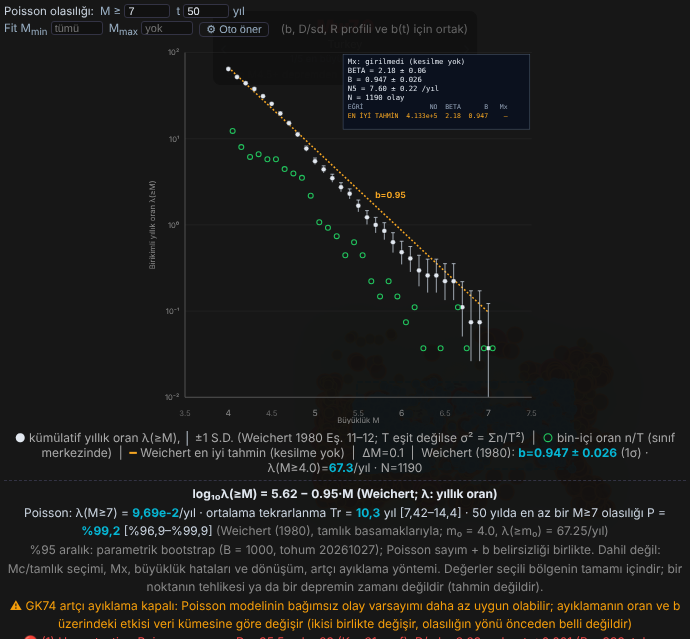
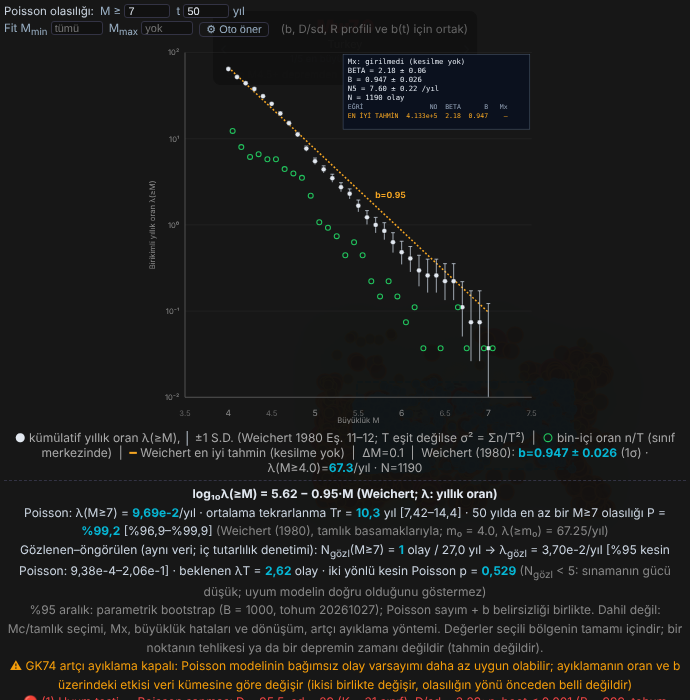
Poisson: gözlenen–öngörülen karşılaştırması (N_gözl, beklenen λT, iki yönlü kesin Poisson p, Garwood %95); tamlık uyarısında etki açıklaması
- Tek Mc: N_gözl(M≥M) ve T = seçili pencere; Weichert: M'nin tam gözlendiği dönemler, T(M) = csObsYears(M)
- p < 0,05 → "gözlenen sayı modelle uyumsuz" uyarısı; N_gözl < 5 → düşük güç notu; iç tutarlılık denetimi olduğu metinde
- Tamlık uyarısı varken P yanında "yorumlamayın" etiketi; b aşağı / büyük M'de λ ve P yukarı yanlılığı metinle
- Birim (test_poisson_prob.js) 23/23: analitik kuyruklar, Garwood, testin boyutu ≤ %5, sentetik eksik katalogda güç
- Kabul 42/42 (önce = tarihsel-pencere-T). Türkiye 1971–1997: M≥6 gözlenen 13; tek Mc beklenen 36,6 (p 1e-5), Weichert 23,2 (p 0,032)

Claude-Session: https://claude.ai/code/session_01UNMkcWFv5QgcQmvZTMC63m

diff --git a/index.html b/index.html
@@ -3693,9 +3693,11 @@ function renderGutenbergRichter(evList, Mc) {
       const warns = [];
       if (!(typeof regionDeclusterOn !== 'undefined' && regionDeclusterOn && regionRect)) warns.push('GK74 artçı ayıklama kapalı: Poisson modelinin bağımsız olay varsayımı daha az uygun olabilir; ayıklamanın oran ve b üzerindeki etkisi veri kümesine göre değişir (ikisi birlikte değişir, olasılığın yönü önceden belli değildir)');
       const hs = grHalfSplitTest(evList.filter(e => (e.mw ?? e.mag) >= g.mc - 1e-9).map(e => +new Date(e.time)).filter(Number.isFinite), tP0, tP1);
-      if (hs.n >= 10 && hs.p < GR_POIS.halfAlpha) warns.push(`M ≥ Mc olayları dönemin ilk yarısında belirgin az (${hs.n1} / ${hs.n2}; tek yönlü binom p = ${hs.p < 1e-4 ? hs.p.toExponential(1) : hs.p.toFixed(4)}): katalog T boyunca Mc'de tam görünmüyor; yıllık oran için Tamlık basamaklarını (Weichert) kullanın`);
-      lastGrPois = { path: 'tekMc', lam, ci, M: pM, t: pT, T: Tp, n: g.n, b: g.b, mc: g.mc, warns: warns.slice() };
-      poisHtml = grPoissonHtml({ eq: `log₁₀[N(≥M)/T] = ${aT.toFixed(2)} − ${g.b.toFixed(2)}·M (T = ${Tp.toFixed(1)} yıl)`, lam, ci, M: pM, t: pT, mObsMax: mMax, mx: null,
+      const compWarn = hs.n >= 10 && hs.p < GR_POIS.halfAlpha;
+      if (compWarn) warns.push(`M ≥ Mc olayları dönemin ilk yarısında belirgin az (${hs.n1} / ${hs.n2}; tek yönlü binom p = ${hs.p < 1e-4 ? hs.p.toExponential(1) : hs.p.toFixed(4)}): katalog T boyunca Mc'de tam görünmüyor. Etkisi: eksik dönem küçük olayları büyüklere göre daha çok eksiltir; b aşağı yanlı olur ve Mc'den büyük M'ye uzatılan λ ile P yukarı yanlı olabilir; N(≥Mc)/T ise düşük kalır. Bu satırdaki P yorumlanmamalıdır; yıllık oran için Tamlık basamaklarını (Weichert) kullanın`);
+      const nObs = evList.filter(e => (e.mw ?? e.mag) >= pM - 1e-9).length, obs = grObsVsExp(nObs, lam * Tp, Tp);
+      lastGrPois = { path: 'tekMc', lam, ci, M: pM, t: pT, T: Tp, n: g.n, b: g.b, mc: g.mc, warns: warns.slice(), obs, compWarn };
+      poisHtml = grPoissonHtml({ eq: `log₁₀[N(≥M)/T] = ${aT.toFixed(2)} − ${g.b.toFixed(2)}·M (T = ${Tp.toFixed(1)} yıl)`, lam, ci, M: pM, t: pT, mObsMax: mMax, mx: null, obs, compWarn,
         src: `tek Mc = ${fmtM(g.mc)}, N(≥Mc) = ${g.n}, Aki–Utsu b; kesilmesiz G–R (Mx yalnız tamlık basamaklarıyla); oran, katalog T boyunca M ≥ Mc'de tamsa geçerlidir`, warns });
     }
   }
@@ -5448,9 +5450,32 @@ function grHalfSplitTest(times, t0, t1) {
   let p = 0; for (let k = 0; k <= n1; k++) p += Math.exp(logGamma(n + 1) - logGamma(k + 1) - logGamma(n - k + 1) - n * Math.LN2);
   return { n, n1, n2: n - n1, p: Math.min(1, p) };
 }
+// Gözlenen–öngörülen karşılaştırması (2026-10-27). Düzenli eksik gama P(a, x) (Numerical Recipes 6.2: seri / sürekli kesir).
+// Poisson kuyrukları: P(X ≤ k | μ) = 1 − P(k + 1, μ); P(X ≥ k | μ) = P(k, μ) (k ≥ 1).
+function grGammaP(a, x) {
+  if (!(x > 0)) return 0; if (!(a > 0)) return 1;
+  const lg = a * Math.log(x) - x - logGamma(a);
+  if (x < a + 1) { let ap = a, sum = 1 / a, del = sum; for (let n = 0; n < 10000; n++) { ap += 1; del *= x / ap; sum += del; if (Math.abs(del) < Math.abs(sum) * 1e-15) break; } return Math.min(1, sum * Math.exp(lg)); }
+  let b = x + 1 - a, c = 1 / 1e-300, d = 1 / b, h = d;
+  for (let i = 1; i < 10000; i++) { const an = -i * (i - a); b += 2; d = an * d + b; if (Math.abs(d) < 1e-300) d = 1e-300; c = b + an / c; if (Math.abs(c) < 1e-300) c = 1e-300; d = 1 / d; const del = d * c; h *= del; if (Math.abs(del - 1) < 1e-15) break; }
+  return Math.max(0, 1 - Math.exp(lg) * h);
+}
+// x: P(a, x) = q (ikiye bölme, log ölçeğinde)
+function grGammaPInv(a, q) { let lo = 1e-12, hi = Math.max(10, a + 20 * Math.sqrt(a) + 20); while (grGammaP(a, hi) < q) hi *= 2;
+  for (let i = 0; i < 200; i++) { const mid = Math.sqrt(lo * hi); if (grGammaP(a, mid) < q) lo = mid; else hi = mid; if (hi / lo - 1 < 1e-12) break; } return Math.sqrt(lo * hi); }
+// Gözlenen N ile beklenen μ = λT: iki yönlü kesin Poisson p (iki kat küçük kuyruk, en çok 1) ve gözlenen oranın kesin %95 aralığı (Garwood 1936)
+function grObsVsExp(nObs, mu, Tobs) {
+  if (!(Tobs > 0) || !(mu >= 0) || !(nObs >= 0)) return null;
+  let pLow, pHigh;
+  if (mu === 0) { pLow = 1; pHigh = nObs === 0 ? 1 : 0; }
+  else { pLow = 1 - grGammaP(nObs + 1, mu); pHigh = nObs === 0 ? 1 : grGammaP(nObs, mu); }
+  const p = Math.min(1, 2 * Math.min(pLow, pHigh));
+  const lo = nObs === 0 ? 0 : grGammaPInv(nObs, 0.025) / Tobs, hi = grGammaPInv(nObs + 1, 0.975) / Tobs;
+  return { nObs, mu, Tobs, lamObs: nObs / Tobs, lo, hi, pLow, pHigh, p };
+}
 function grPoisInputs() { const g = id => parseFloat(document.getElementById(id)?.value); const M = g('grPM'), t = g('grPt');
   return { M: Number.isFinite(M) ? M : GR_POIS.mDef, t: Number.isFinite(t) && t > 0 ? t : GR_POIS.tDef }; }
-// Panel satırı (iki G–R yolunda ortak). r: { eq, lam, ci, M, t, mObsMax, mx, src, warns[] }
+// Panel satırı (iki G–R yolunda ortak). r: { eq, lam, ci, M, t, mObsMax, mx, src, warns[], obs (grObsVsExp), compWarn }
 function grPoissonHtml(r) {
   const pc = v => v === null || !Number.isFinite(v) ? '—' : (100 * v < 0.1 && v > 0 ? '< 0,1' : (100 * v).toFixed(1).replace('.', ','));
   const yr = v => v === null || !Number.isFinite(v) || v <= 0 ? '—' : v >= 1e4 ? v.toExponential(2).replace('.', ',') : v >= 100 ? Math.round(v).toLocaleString('tr-TR') : v.toPrecision(3).replace('.', ',');
@@ -5460,10 +5485,16 @@ function grPoissonHtml(r) {
   const trCi = r.ci && r.ci.lamHi ? ` [${yr(1 / r.ci.lamHi)}–${yr(r.ci.lamLo > 0 ? 1 / r.ci.lamLo : null)}]` : '';
   const W = r.warns.slice(); if (ex) W.unshift(`M ≥ ${r.M} gözlenen en büyük büyüklüğün (${r.mObsMax.toFixed(1)}) üstünde: sonuç <b>ekstrapolasyondur</b>${r.mx === null ? '; kesilmesiz G–R büyük M için oranı olduğundan yüksek verebilir' : ''}`);
   if (r.mx !== null && r.M >= r.mx) W.unshift(`M ≥ Mx (${r.mx}): kesik G–R modelinde oran 0`);
+  const o = r.obs, num = v => v.toPrecision(3).replace('.', ',');
+  if (o && o.mu > 0 && o.p < 0.05) W.unshift(`Gözlenen sayı modelle uyumsuz (M ≥ ${r.M}: gözlenen ${o.nObs}, beklenen ${num(o.mu)}; p = ${o.p < 1e-4 ? o.p.toExponential(1).replace('.', ',') : o.p.toFixed(3).replace('.', ',')}): bu M için λ, Tr ve P güvenilir değildir`);
+  const obsLine = !o ? '' : `<br><span title="Aynı katalog hem modeli kurmak hem sınamak için kullanılır: bu bir iç tutarlılık denetimidir, bağımsız doğrulama değildir. p: model λ doğruysa, gözlenen sayının beklenenden en az bu kadar uzak çıkma olasılığı (iki yönlü kesin Poisson; küçük kuyruk × 2). Az gözlemde sınamanın gücü düşüktür.">` +
+    `Gözlenen–öngörülen (aynı veri; iç tutarlılık denetimi): N<sub>gözl</sub>(M≥${r.M}) = <b>${o.nObs}</b> olay / ${o.Tobs.toFixed(1).replace('.', ',')} yıl → λ<sub>gözl</sub> = ${lmb(o.lamObs)}/yıl [%95 kesin Poisson: ${lmb(o.lo)}–${lmb(o.hi)}] · beklenen λT = <b>${num(o.mu)}</b> olay · iki yönlü kesin Poisson p = <b>${o.p < 1e-4 ? o.p.toExponential(1).replace('.', ',') : o.p.toFixed(3).replace('.', ',')}</b>` +
+    (o.nObs < 5 ? ` <span style="color:#888">(N<sub>gözl</sub> &lt; 5: sınamanın gücü düşük; uyum modelin doğru olduğunu göstermez)</span>` : '') + `</span>`;
+  const pTag = r.compWarn ? ` <span style="color:#f59e0b">(tamlık uyarısı: yorumlamayın, aşağıya bakın)</span>` : '';
   return `<div id="grPoisRow" style="margin-top:5px;padding-top:4px;border-top:1px dashed #334;color:#cbd5e1;line-height:1.55;">` +
     `<b style="color:#e2e8f0;">${r.eq}</b><br>` +
-    `<span title="Poisson (zamandan bağımsız): P(t) = 1 − e^(−λt), Tr = 1/λ">Poisson: λ(M≥${r.M}) = <b>${lmb(r.lam)}</b>/yıl · ortalama tekrarlanma Tr = <b>${yr(Tr)}</b> yıl${trCi} · ${r.t} yılda en az bir M≥${r.M} olasılığı P = <b>%${pc(P)}</b>${ci}</span> ` +
-    `<span style="color:#888">(${r.src})</span><br>` +
+    `<span title="Poisson (zamandan bağımsız): P(t) = 1 − e^(−λt), Tr = 1/λ">Poisson: λ(M≥${r.M}) = <b>${lmb(r.lam)}</b>/yıl · ortalama tekrarlanma Tr = <b>${yr(Tr)}</b> yıl${trCi} · ${r.t} yılda en az bir M≥${r.M} olasılığı P = <b>%${pc(P)}</b>${ci}${pTag}</span> ` +
+    `<span style="color:#888">(${r.src})</span>` + obsLine + `<br>` +
     `<span style="color:#888">%95 aralık: parametrik bootstrap${r.ci ? ` (B = ${r.ci.B}, tohum ${r.ci.seed}${r.ci.nFail ? `, kurulamayan ${r.ci.nFail}` : ''})` : ''}; Poisson sayım + b belirsizliği birlikte. Dahil değil: Mc/tamlık seçimi, Mx, büyüklük hataları ve dönüşüm, artçı ayıklama yöntemi. ` +
     `Değerler seçili bölgenin tamamı içindir; bir noktanın tehlikesi ya da bir depremin zamanı değildir (tahmin değildir).</span>` +
     (W.length ? `<br><span style="color:#f59e0b">⚠ ${W.join(' · ⚠ ')}</span>` : '') + `</div>`;
@@ -6071,9 +6102,12 @@ function renderGutenbergRichterCS(cs) {
     const warns = [];
     if (!(typeof regionDeclusterOn !== 'undefined' && regionDeclusterOn && regionRect)) warns.push('GK74 artçı ayıklama kapalı: Poisson modelinin bağımsız olay varsayımı daha az uygun olabilir; ayıklamanın oran ve b üzerindeki etkisi veri kümesine göre değişir (ikisi birlikte değişir, olasılığın yönü önceden belli değildir)');
     if (fitOn && (pM < m0 - 1e-9)) warns.push(`M ≥ ${pM} fit aralığının (M ${m0.toFixed(1)}–${mTopFit.toFixed(1)}) altında`);
-    lastGrPois = { path: 'weichert', lam, ci, M: pM, t: pT, mx: Mx, m0, rate0: rate0Best, b: wf.b, warns: warns.slice() };
+    // Gözlenen: M'nin tam gözlendiği dönemler (eşik ≤ M) ve bu dönemlerdeki M ≥ M olayları; maruz kalma T(M) = csObsYears(M)
+    const Tobs = csObsYears(pM, cs.periods), nObs = items.filter(it => it.mc <= pM + 1e-9 && it.m >= pM - 1e-9).length;
+    const obs = Tobs > 0 ? grObsVsExp(nObs, lam * Tobs, Tobs) : null;
+    lastGrPois = { path: 'weichert', lam, ci, M: pM, t: pT, mx: Mx, m0, rate0: rate0Best, b: wf.b, warns: warns.slice(), obs };
     poisHtml = grPoissonHtml({ eq: Mx === null ? `log₁₀λ(≥M) = ${aW.toFixed(2)} − ${wf.b.toFixed(2)}·M (Weichert; λ: yıllık oran)` : `λ(≥M) = λ₀·[e^(−β(M−m₀)) − e^(−β(Mx−m₀))]/[1 − e^(−β(Mx−m₀))], Mx = ${Mx} (kesik G–R; Mx'ten uzakta log₁₀λ ≈ ${aW.toFixed(2)} − ${wf.b.toFixed(2)}·M)`,
-      lam, ci, M: pM, t: pT, mObsMax: Math.max(...items.map(it => it.m)), mx: Mx, src: `Weichert (1980), tamlık basamaklarıyla; m₀ = ${m0.toFixed(1)}, λ(≥m₀) = ${rate0Best.toPrecision(4)}/yıl`, warns });
+      lam, ci, M: pM, t: pT, mObsMax: Math.max(...items.map(it => it.m)), mx: Mx, obs, src: `Weichert (1980), tamlık basamaklarıyla; m₀ = ${m0.toFixed(1)}, λ(≥m₀) = ${rate0Best.toPrecision(4)}/yıl`, warns });
   }
   stats.innerHTML = `<span style="color:#e2e8f0">●</span> kümülatif yıllık oran λ(≥M), <span style="color:#cbd5e1">│</span> ±1 S.D. (Weichert 1980 Eş. 11–12; T eşit değilse σ² = Σn/T²) &nbsp;|&nbsp; <span style="color:#22c55e">○</span> bin-içi oran n/T (sınıf merkezinde) &nbsp;|&nbsp; <span style="color:#f5a623">━</span> Weichert en iyi tahmin${Mx !== null ? ` (Mx = ${Mx} ile kesik, Eş. 14)` : ' (kesilme yok)'}${curves.length > 1 ? ` · <span style="color:#9ca3af">─</span> üst/alt eğri (β ∓ σ, Mx ${dMxHi >= 0 ? '+' : ''}${dMxHi} / ${dMxLo >= 0 ? '+' : ''}${dMxLo}; oran Eş. 10'dan)` : ''} &nbsp;|&nbsp; ΔM=${DM}${fitStr}` + poisHtml +
     (mxNote ? `<div style="color:#f59e0b">${mxNote}</div>` : '') + (fitNote ? `<div style="color:#f59e0b">${fitNote}</div>` : '') +

diff --git a/scripts/test_poisson_prob.js b/scripts/test_poisson_prob.js
@@ -7,6 +7,8 @@
 //   3. Sentetik katalog (tek Mc): bilinen λ0 ve b = 1 → λ(≥6) ve P(50 yıl) yansız geri üretilir; bootstrap %95 aralığı kapsaması ≈ %95.
 //   4. Sentetik katalog (Weichert, değişken tamlık): aynı denetimler.
 //   5. Tamlık denetimi (binom, tek yönlü): kesin değer ve iki senaryo.
+//   6. Gözlenen–öngörülen: kesin Poisson kuyrukları ve Garwood aralığı (analitik), testin boyutu (doğru modelde p < 0,05 oranı ≤ %5),
+//      sentetik başı eksik katalogda tek Mc yanlılığının yakalanması, Weichert'in aynı katalogda uyumlu kalması.
 // Kullanım (depo kökünde): node scripts/test_poisson_prob.js [index.html]
 'use strict';
 const fs = require('fs'), path = require('path'), vm = require('vm');
@@ -17,7 +19,7 @@ const line = re => { const m = src.match(re); if (!m) throw new Error('bulunamad
 const ctx = {}; vm.createContext(ctx);
 vm.runInContext([line(/^const GR_QC = [^\n]*$/m), line(/^const GR_POIS = [^\n]*$/m), line(/^const LANCZOS_C = \[[\s\S]*?\];$/m),
   ...['mulberry32', 'logGamma', 'poissonSample', 'bGridRound', 'computeBvalue', 'weichertFit', 'weichertExpected',
-      'grPoissonP', 'grLambdaSimple', 'grLambdaWeichert', 'grPctl', 'grPoissonBootSimple', 'grPoissonBootWeichert', 'grHalfSplitTest'].map(fn)].join('\n'), ctx);
+      'grPoissonP', 'grLambdaSimple', 'grLambdaWeichert', 'grPctl', 'grPoissonBootSimple', 'grPoissonBootWeichert', 'grHalfSplitTest', 'grGammaP', 'grGammaPInv', 'grObsVsExp'].map(fn)].join('\n'), ctx);
 const X = ctx;
 let pass = 0, fail = 0;
 const ok = (c, m) => { if (c) pass++; else fail++; console.log((c ? '  ok  ' : '  !!  ') + m); };
@@ -100,5 +102,41 @@ console.log('\n5. Tamlık denetimi (binom, tek yönlü)');
   const rnd = X.mulberry32(9), uni = Array.from({ length: 400 }, () => rnd() * 100), front = Array.from({ length: 400 }, () => (rnd() < 0.25 ? rnd() * 50 : 50 + rnd() * 50));
   const hu = X.grHalfSplitTest(uni, 0, 100), hf = X.grHalfSplitTest(front, 0, 100);
   ok(hu.p > 0.01 && hf.p < 1e-6, `tekdüze katalog p = ${hu.p.toFixed(3)} (uyarı yok); başı eksik katalog (ilk yarı %25) p = ${hf.p.toExponential(1)} (uyarı)`); }
+
+console.log('\n6. Gözlenen–öngörülen (kesin Poisson)');
+{ // Analitik: P(X ≤ 1 | μ) = e^−μ(1 + μ); Garwood N = 1: [χ²(0,025; 2)/2, χ²(0,975; 4)/2] = [0,025318, 5,571643]; N = 0 üst: −ln 0,025 = 3,688879
+  const mu = 6.17, r = X.grObsVsExp(1, mu, 27), pl = Math.exp(-mu) * (1 + mu);
+  ok(near(r.pLow, pl, 1e-12) && near(r.p, 2 * pl, 1e-12), `N = 1, μ = 6,17: P(X ≤ 1) = ${r.pLow.toFixed(6)} (analitik ${pl.toFixed(6)}); iki yönlü p = ${r.p.toFixed(4)}`);
+  ok(near(r.lo * 27, 0.025318, 1e-5) && near(r.hi * 27, 5.571643, 1e-5), `Garwood %95, N = 1: [${(r.lo * 27).toFixed(6)}, ${(r.hi * 27).toFixed(6)}] olay (tablo 0,025318–5,571643)`);
+  const z = X.grObsVsExp(0, 2, 10); ok(z.lo === 0 && near(z.hi * 10, 3.688879, 1e-5) && near(z.p, Math.min(1, 2 * Math.exp(-2)), 1e-12), `N = 0: üst sınır ${(z.hi * 10).toFixed(6)} (−ln 0,025), p = 2e^−2`);
+  // Büyük N: doğrudan log-toplamla karşılaştırma
+  const lpois = (k, m) => -m + k * Math.log(m) - X.logGamma(k + 1);
+  let cdf = 0; for (let k = 0; k <= 9700; k++) cdf += Math.exp(lpois(k, 10000));
+  const b = X.grObsVsExp(9700, 10000, 1); ok(Math.abs(b.pLow / cdf - 1) < 1e-8, `N = 9700, μ = 10⁴: P(X ≤ N) = ${b.pLow.toExponential(4)} (doğrudan toplam ${cdf.toExponential(4)})`);
+  const m0 = X.grObsVsExp(0, 0, 5), m1 = X.grObsVsExp(2, 0, 5); ok(m0.p === 1 && m1.p === 0, 'μ = 0 (M ≥ Mx): N = 0 → p = 1; N > 0 → p = 0 (model gözlemle çelişir)'); }
+{ // Boyut: doğru modelde p < 0,05 oranı ≤ %5 (kesin test tutucudur)
+  const rnd = X.mulberry32(31), R = 4000, out = [];
+  for (const mu of [0.5, 3, 30, 300]) { let rej = 0; for (let i = 0; i < R; i++) if (X.grObsVsExp(X.poissonSample(mu, rnd), mu, 1).p < 0.05) rej++; out.push([mu, rej / R]); }
+  console.log(`     doğru modelde reddetme oranı (α = 0,05, ${R} deneme): ${out.map(([m, r]) => `μ = ${m}: %${(100 * r).toFixed(1)}`).join('; ')}`);
+  ok(out.every(([, r]) => r <= 0.05 + 0.011), 'testin boyutu nominali aşmıyor (≤ %5 + Monte Carlo payı)'); }
+{ // Sentetik başı eksik katalog: gerçek b = 1, λ(≥3) = 40/yıl, T = 60 yıl; ilk 30 yılda M < 4,0 olayların %90'ı kayıp (yalnız M ≥ 4 tam)
+  // Denetimin gücü beklenen sayıya bağlıdır: M ≥ 5 (beklenen ≈ 24 olay) ve M ≥ 6 (≈ 2,4 olay) ayrı raporlanır.
+  const DM = 0.1, b = 1, beta = b * Math.LN10, lam0 = 40, T = 60, Mc = 3.0, R = 200, rnd = X.mulberry32(2026), Ms = [5.0, 6.0];
+  const rejS = { 5: 0, 6: 0 }, rejW = { 5: 0, 6: 0 }; let bS = 0, nW = 0;
+  for (let r = 0; r < R; r++) {
+    const ev = []; const n = X.poissonSample(lam0 * T, rnd);
+    for (let i = 0; i < n; i++) { const t = rnd() * T, m = X.bGridRound(Mc - DM / 2 - Math.log(1 - rnd()) / beta, Mc, DM); if (t < 30 && m < 4 - 1e-9 && rnd() < 0.9) continue; ev.push({ t, m }); }
+    const mg = ev.map(e => e.m), bh = X.computeBvalue(mg, Mc, DM), nA = mg.filter(m => m >= Mc - 1e-9).length; bS += bh;
+    const counts = {}; ev.forEach(e => { const k = Math.floor((e.m + 1e-9) / DM); if (k < 40 && e.t < 30) return; counts[k] = (counts[k] || 0) + 1; });
+    const cls = []; for (let k = 30; k < 90; k++) { const lo = +(k * DM).toFixed(2); cls.push({ m: lo + DM / 2, lo, T: lo >= 4 - 1e-9 ? 60 : 30, n: counts[k] || 0 }); }
+    const wf = X.weichertFit(cls); if (wf) nW++;
+    for (const M of Ms) { const nObs = mg.filter(m => m >= M - 1e-9).length;
+      if (X.grObsVsExp(nObs, X.grLambdaSimple(nA, T, bh, Mc, M) * T, T).p < 0.05) rejS[M]++;
+      if (wf && X.grObsVsExp(nObs, X.grLambdaWeichert(wf.rate0, wf.beta, 3.0, M, null) * T, T).p < 0.05) rejW[M]++; }
+  }
+  const f = (k, n) => `%${(100 * k / n).toFixed(1)}`;
+  console.log(`     başı eksik katalog (${R}): tek Mc ortalama b = ${(bS / R).toFixed(3)} (gerçek 1). Gözlenen–öngörülen p < 0,05 oranı — M ≥ 5 (beklenen ≈ 24 olay): tek Mc ${f(rejS[5], R)}, Weichert ${f(rejW[5], nW)}; M ≥ 6 (≈ 2,4 olay): tek Mc ${f(rejS[6], R)}, Weichert ${f(rejW[6], nW)}`);
+  ok(bS / R < 0.95 && rejS[5] / R > rejW[5] / nW && rejW[5] / nW <= 0.08, 'eksik tamlıkta tek Mc b aşağı yanlı; denetim tek Mc\'yi Weichert\'ten daha sık reddediyor, Weichert reddi nominal düzeyde. Güç düşük: düşük N(≥Mc) ile düşük b orta M\'de kısmen birbirini götürür (M ≥ 5\'te öngörü/gerçek ≈ 1,2); denetim bir tarama aracıdır, yanlılığın yokluğunu kanıtlamaz');
+  ok(rejS[6] / R < rejS[5] / R, 'az olayda (M ≥ 6) denetimin gücü düşük: uyum, modelin doğru olduğu anlamına gelmez'); }
 
 console.log(`\n${fail ? 'FAIL' : 'PASS'}: ${pass} geçti, ${fail} kaldı`); process.exit(fail ? 1 : 0);

diff --git a/analysis/poisson_olasilik/kabul_poisson.js b/analysis/poisson_olasilik/kabul_poisson.js
@@ -9,6 +9,7 @@
 //   (3) Girdiler: M ve t değişince değerler güncellenir, URL'ye yazılır (pm, pt); varsayılan M ≥ 7, t = 50.
 //   (4) Uyarılar: GK74 kapalıyken uyarı var, açıkken yok; M > gözlenen en büyük → ekstrapolasyon uyarısı; Mx girildi ve M ≥ Mx → λ = 0 ve uyarı.
 //   (5) Bölge bütünü / tahmin değildir notu ve belirsizlik kapsamı (dahil/dahil değil) metinde.
+//   (6) Gözlenen–öngörülen: N_gözl, beklenen λT ve kesin Poisson p bağımsız hesapla aynı; p < 0,05'te uyarı; N_gözl < 5 notu; tamlık uyarısında P etiketi.
 // Ekran görüntüleri: poisson_tekMc_gk74kapali.png, poisson_tekMc_gk74acik.png, poisson_weichert.png, poisson_weichert_mx.png
 // Kullanım (depo kökünde): LEAFLET_DIR=<node_modules> node analysis/poisson_olasilik/kabul_poisson.js <önceki_index.html>
 'use strict';
@@ -66,6 +67,7 @@ const ADIM = [   // [ad, işlem]
   ['weichert_gk74kapali', async p => p.evaluate(async () => { await __gk(false); })],
   ['weichert_mx75_M7', async p => p.evaluate(() => { __set('grMx', '7.5'); })],
   ['weichert_mx75_M8', async p => p.evaluate(() => { __set('grPM', '8'); })],
+  ['weichert_M6', async p => p.evaluate(() => { __set('grMx', ''); __set('grPM', '6'); })],
   // Tamlık denetimi: pencerenin ilk yarısı boşsa uyarı (seçili pencere 1971–1997 iken 1900'den başlatılmış gibi; yalnız test için)
   ['tekMc_ilkYariBos', async p => p.evaluate(() => { __cs(false); __set('grMx', ''); __set('grPM', '7'); regionWindowStart = new Date('1900-01-01T00:00:00Z'); renderTimeMag([...events, ...liveEvents]); })],
 ];
@@ -116,6 +118,21 @@ const GORUNTU = { tekMc_gk74kapali: 'poisson_tekMc_gk74kapali.png', tekMc_gk74ac
     const a = Y.tekMc_gk74kapali, z = Y.tekMc_ilkYariBos;
     ok(/ilk yarısında belirgin az \(0 \/ /.test(z.pois), `(2) İlk yarı boş (T 1900'den): tamlık uyarısı "${w(z.pois)}"`);
     console.log(`     Seçili pencerede (1971–1997) tamlık denetimi: ${w(a.pois) ? 'uyarı "' + w(a.pois) + '" (ISC 1971–1984 dönemi M ≥ Mc = 3,7 için eksik)' : 'uyarı yok'}`); }
+  // Gözlenen–öngörülen: N_obs, μ = λT(M), kesin Poisson p bağımsız yeniden hesapla; uyarı ve tamlık etiketi
+  { const pois = (k, m) => Math.exp(-m + k * Math.log(m) - lg(k + 1)), lg = x => { let s = 0; for (let i = 2; i < x; i++) s += Math.log(i); return s; };
+    const cdf = (k, m) => { let c = 0; for (let i = 0; i <= k; i++) c += pois(i, m); return c; };
+    const p2 = (n, m) => m === 0 ? (n === 0 ? 1 : 0) : Math.min(1, 2 * Math.min(cdf(n, m), n === 0 ? 1 : 1 - cdf(n - 1, m)));
+    for (const k of ['tekMc_gk74kapali', 'tekMc_M6_t75', 'weichert_gk74kapali', 'weichert_mx75_M8', 'weichert_M6']) {
+      const q = Y[k].pois_n, o = q.obs, T = q.path === 'tekMc' ? q.T : o.Tobs, mu = q.lam * T, pr = p2(o.nObs, mu);
+      ok(o && Math.abs(o.mu - mu) <= 1e-9 * Math.max(1, mu) && Math.abs(o.p - pr) < 1e-9 && Y[k].pois.includes(`= ${o.nObs} olay`),
+        `(6) ${k}: N_gözl(M≥${q.M}) = ${o.nObs} / ${o.Tobs.toFixed(2)} yıl; beklenen λT = ${mu.toPrecision(3)}; p = ${o.p.toPrecision(3)} (bağımsız hesap ${pr.toPrecision(3)}); λ_gözl %95 [${o.lo.toExponential(2)}, ${o.hi.toExponential(2)}]`);
+    }
+    const a = Y.tekMc_gk74kapali, w = Y.weichert_gk74kapali;
+    ok(a.pois_n.obs.p < 0.05 && /Gözlenen sayı modelle uyumsuz/.test(a.pois) && w.pois_n.obs.p >= 0.05 && !/modelle uyumsuz/.test(w.pois),
+      `(6) Tek Mc M ≥ 7: p = ${a.pois_n.obs.p.toFixed(3)} → "modelle uyumsuz" uyarısı; Weichert M ≥ 7: p = ${w.pois_n.obs.p.toFixed(3)} → uyarı yok`);
+    ok(/N<sub>gözl<\/sub> &lt; 5|sınamanın gücü düşük/.test(a.pois) && /sınamanın gücü düşük/.test(w.pois), '(6) N_gözl < 5: "sınamanın gücü düşük" notu');
+    ok(a.pois_n.compWarn && /tamlık uyarısı: yorumlamayın/.test(a.pois) && /b aşağı yanlı olur/.test(a.pois), '(6) Tamlık uyarısı varken P yanında "yorumlamayın" etiketi ve etkinin açıklaması (b aşağı, büyük M için λ ve P yukarı yanlı olabilir)');
+    ok(/iç tutarlılık denetimi/.test(a.pois), '(6) Metin: aynı veri — iç tutarlılık denetimi, bağımsız doğrulama değil'); }
   // (3) girdiler
   ok(Y.tekMc_gk74kapali.pois_n.M === 7 && Y.tekMc_gk74kapali.pois_n.t === 50, '(3) Varsayılan M ≥ 7, t = 50 yıl');
   ok(Y.tekMc_M6_t75.pois_n.M === 6 && Y.tekMc_M6_t75.pois_n.t === 75 && /pm=6/.test(Y.tekMc_M6_t75.url) && /pt=75/.test(Y.tekMc_M6_t75.url), `(3) M = 6, t = 75 girdisi uygulandı ve URL'ye yazıldı (${Y.tekMc_M6_t75.url.match(/p[mt]=[^&]*/g).join(', ')})`);

diff --git a/analysis/poisson_olasilik/RAPOR.md b/analysis/poisson_olasilik/RAPOR.md
@@ -1,6 +1,12 @@
-# Poisson aşılma olasılığı — doğrulama raporu (2026-10-27, güncelleme 2)
+# Poisson aşılma olasılığı — doğrulama raporu (2026-10-27, güncelleme 3)
 
 **Dal:** `bolge-karsilastirma-a-etiketi`. Bu dal, tarihsel pencere düzeltmesini (`tarihsel-pencere-T`, 17ca240) içerir. `main`'e birleştirilmedi, canlıya yayımlanmadı.
+
+**Güncelleme 3'te eklenenler:**
+- Panele gözlenen–öngörülen satırı (kesin Poisson p ve Garwood aralığı).
+- Tamlık uyarısında etkinin metinle açıklanması.
+- Kabul testi 42/42, birim testleri 23 denetim.
+- Ayrıntılar §4'te.
 
 **Güncelleme 2'de değişenler:**
 - Tarihsel pencere düzeltmesi dala birleştirildi.
@@ -37,7 +43,7 @@
 
 ## 2. Birim testleri: `scripts/test_*.js`, 15/15
 
-Yeni test `test_poisson_prob.js` (15 denetim).
+Yeni test `test_poisson_prob.js` (23 denetim; §6'sı §4.2'de).
 
 **Analitik ve tutarlılık:**
 - λ = 0,01 ve t = 50 → P = 0,393469 (= 1 − e^−0,5).
@@ -69,7 +75,7 @@ Yeni test `test_poisson_prob.js` (15 denetim).
 
 Kapsam sınırı: Bu deneylerde model doğrudur. Yani G–R, Poisson, bilinen tamlık ve hatasız büyüklük varsayılıyor. Gerçek kataloglardaki tamlık hatası, büyüklük hatası ve kümelenme bu kapsamaya dahil değildir (§4).
 
-## 3. Tarayıcı kabul testi: `kabul_poisson.js`, 32/32
+## 3. Tarayıcı kabul testi: `kabul_poisson.js`, 42/42 ((6) maddeleri §4.3'te)
 
 - Senaryo: Türkiye modu, ISC 1971–1997, dikdörtgen 36–42° K / 26–45° D.
 - Önce: `tarihsel-pencere-T` (main + pencere düzeltmesi). Sonra: bu dal.
@@ -92,23 +98,68 @@ Ekran görüntüleri:
 - `poisson_weichert.png`
 - `poisson_weichert_mx.png`
 
-## 4. Gözlenen ve öngörülen sayılar (aynı senaryo, T = 27 yıl)
+## 4. Gözlenen–öngörülen karşılaştırması (güncelleme 3: panele eklendi)
 
-| | Gözlenen (1971–1997) | Tek Mc (Mc = 3,7, b = 0,77) | Weichert (b = 0,947) |
-|---|---|---|---|
-| N(M ≥ 6) / yıl | 13 olay → 0,48 | 1,36 | — |
-| N(M ≥ 7) / yıl | 1 olay (1976 Çaldıran, Mw 7,0) → 0,037 [Poisson %95: 0,0009–0,21] | 0,23 [0,18–0,29] | 0,097 |
-| P(50 yıl, M ≥ 7) | — | %100,0 | %99,2 |
+### 4.1 Panelde ne gösteriliyor
 
-**Tek Mc yolu bu katalogda büyük M oranını açıkça abartıyor.** M ≥ 6 için öngörü gözlenenin yaklaşık 2,8 katı. Nedenleri:
-- Katalog Mc = 3,7'de 1971–1997 boyunca tam değil. Tamlık uyarısı bunu gösteriyor: ilk yarıda 498 / 1702 olay, p = 1,6e−153.
-- Bu yüzden b = 0,77 düşük çıkıyor.
+Panelde şu satır görünüyor:
 
-Panel bu durumda uyarı verip Weichert'i öneriyor. Ancak öngörülen değer yine de ekranda görünüyor.
+> Gözlenen–öngörülen (aynı veri; iç tutarlılık denetimi): N_gözl(M≥M) olay / T(M) yıl → λ_gözl [%95 kesin Poisson] · beklenen λT · iki yönlü kesin Poisson p
 
-Weichert öngörüsü (0,097/yıl) tek olayın Poisson aralığı içinde kalıyor. Yine de bu aralık çok geniş; 27 yıllık bir pencere M ≥ 7 oranını sınamaya yetmez.
+**Karşılaştırma koşulu:** Tek Mc ile Weichert yalnızca aynı M eşiği, aynı pencere ve aynı oran tanımıyla karşılaştırılır.
 
-Öneri (karar sizde): Poisson satırına "gözlenen N(≥M) ile öngörülen λT" karşılaştırmasını ve bunun Poisson p değerini eklemek. Ayrıca tek Mc tamlık uyarısı varken P değerini soluk göstermek ya da gizlemek. Bu, ChatGPT'nin "yanlış oranı doğruymuş gibi sunmamalı" koşulunu veri düzeyinde de karşılar.
+**Tanımlar:**
+- **Tek Mc:** Pencere boyunca M ≥ M sınıfındaki olaylar sayılır; T, seçili pencerenin süresidir.
+- **Weichert:** Yalnızca M'nin tam gözlendiği dönemlerdeki (eşik ≤ M) olaylar sayılır; T(M) = `csObsYears(M)`. Panelin Weichert olabilirliğinde kullandığı süre budur. M tüm basamak eşiklerinin üstündeyse T(M) pencerenin tamamına eşit olur ve iki yöntem aynı N_gözl ve aynı T ile karşılaştırılır (M ≥ 6 ve M ≥ 7 için 13 ve 1 olay, 27,0 yıl).
+- **p:** İki yönlü kesin Poisson testi. Küçük kuyruk iki ile çarpılır, en çok 1. Model λ'sı doğruysa, gözlenen sayının beklenenden en az bu kadar uzak çıkma olasılığını verir.
+- **λ_gözl aralığı:** Garwood (1936) kesin aralığı.
+
+**Gösterim kuralları:**
+- p < 0,05 ise uyarı çıkar: "Gözlenen sayı modelle uyumsuz … λ, Tr ve P güvenilir değildir".
+- N_gözl < 5 ise not düşülür: "sınamanın gücü düşük; uyum modelin doğru olduğunu göstermez".
+- Tek Mc tamlık uyarısı varsa P'nin yanına "(tamlık uyarısı: yorumlamayın)" yazılır. Uyarı metni etkiyi de açıklar: eksik dönem küçük olayları büyüklere göre daha çok eksiltir; b aşağı yanlı olur, Mc'den büyük M'ye uzatılan λ ve P yukarı yanlı olabilir, N(≥Mc)/T ise düşük kalır. P soluklaştırılmadı; neden metinle yazılıyor.
+
+**Sınır:** Aynı katalog hem modeli kurmak hem sınamak için kullanılıyor. Bu yüzden denetim bir iç tutarlılık denetimidir, bağımsız doğrulama değildir. Uyum, modelin doğru olduğunu kanıtlamaz.
+
+### 4.2 Birim testleri (`test_poisson_prob.js` §6)
+
+| Denetim | Sonuç |
+|---|---|
+| P(X ≤ 1 \| μ = 6,17) analitik e^−μ(1+μ) | 0,014994, aynı |
+| Garwood, N = 1 | [0,025318; 5,571643] olay, tabloyla aynı |
+| Garwood, N = 0 üst sınır | −ln 0,025 = 3,688879 |
+| N = 9700, μ = 10⁴: doğrudan toplamla karşılaştırma | göreli fark < 1e−8 |
+| Testin boyutu: doğru modelde p < 0,05 oranı (4000 deneme) | μ = 0,5: %1,1; μ = 3: %1,2; μ = 30: %4,3; μ = 300: %4,7. Hiçbiri %5'i aşmıyor; kesin test tutucu |
+| Sentetik, başı eksik katalog (gerçek b = 1; ilk 30 yılda M < 4 olayların %90'ı kayıp; 200 katalog): tek Mc b | 0,848 |
+| Aynı katalog, reddetme oranı | M ≥ 5 (≈ 24 olay): tek Mc %11,5, Weichert %1,5. M ≥ 6 (≈ 2,4 olay): tek Mc %4,0, Weichert %0,0 |
+
+**Sentetik testin dersi:** Denetimin gücü sınırlı. Eksik tamlıkta N(≥Mc) düşük kalıyor ve b de düşük çıkıyor. Bu iki yanlılık orta büyüklüklerde birbirini kısmen götürüyor; M ≥ 5'te öngörülen/gerçek oranı yalnızca ≈ 1,2. Yanlılık büyük M'de büyüyor, ama orada da olay sayısı azalıyor. Bu yüzden denetim bir tarama aracıdır: reddetmesi bir sorunun işaretidir, reddetmemesi sorunun yokluğunu göstermez.
+
+### 4.3 Kabul testi (`kabul_poisson.js` (6)): 42/42
+
+Türkiye, ISC 1971–1997, dikdörtgen 36–42° K / 26–45° D, T = 27,0 yıl.
+
+| Eşik | N_gözl | Tek Mc (Mc 3,7, b 0,77): beklenen λT | p | Weichert (b 0,947): beklenen λT | p |
+|---|---|---|---|---|---|
+| M ≥ 6 | 13 | 36,6 | 1,3e−5 | 23,2 | 0,032 |
+| M ≥ 7 | 1 (1976 Çaldıran) | 6,17 | 0,030 | 2,62 | 0,53 (N < 5, düşük güç) |
+| M ≥ 8, Mx = 7,5 | 0 | — | — | 0 | 1 |
+
+Ekranda gösterilen her değer (N_gözl, λT, p) bağımsız bir hesapla aynı çıktı.
+
+### 4.4 Yorum
+
+Bu bulgu kesin bir hüküm değildir.
+
+- **Tek Mc**, M ≥ 6 ve M ≥ 7'de gözlenenle uyumsuz: gözlenenin 2,8 ve 6,2 katı, p ≤ 0,03. Tamlık uyarısı da aynı yönü gösteriyor: ilk yarıda 498 / 1702 olay, p = 1,6e−153.
+- **Weichert** de M ≥ 6'da gözlenenden yüksek (23,2'ye karşı 13; p = 0,032). M ≥ 7'deki uyum ise tek gözlem nedeniyle bilgi taşımıyor.
+
+Fark kısmen yöntemden kaynaklanıyor olabilir, ama nedeni önceden varsayılmamalı. Olası açıklamalar:
+- Bu testte kullanılan tamlık basamakları (1971 M ≥ 4,5; 1985 M ≥ 4,0) **test amaçlı seçildi, doğrulanmış bir Türkiye tamlık modeli değil.** Basamaklar iyimserse b hâlâ aşağı yanlı olabilir.
+- Geniş ve tektonik olarak karışık bir bölgede, büyük M'de G–R'nin doğrusal olmaması da (eğrilik, kuyruk) etkili olabilir.
+- 27 yıllık pencere kısa.
+
+Bu soru (dönemsel tamlıkla birleştirmenin tek Mc'ye göre oranı ne kadar değiştirdiği ve bunun gözlenen sayılarla uyumu) doğrulanmış tamlık basamaklarıyla, daha uzun pencerede ve bölgelere ayrılarak ayrıca incelenmelidir.
 
 ## 5. Literatür ile karşılaştırma
 
